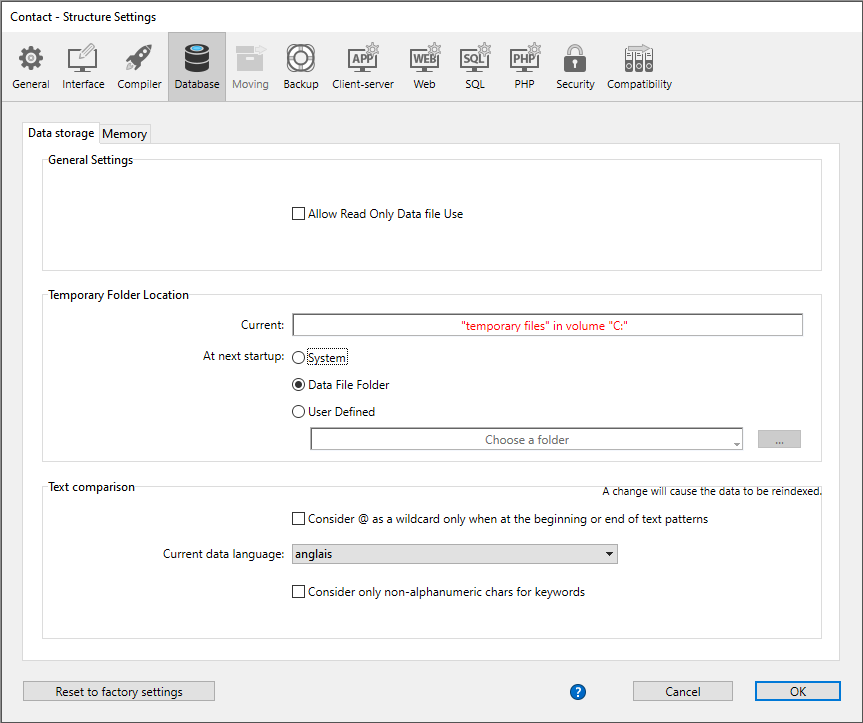
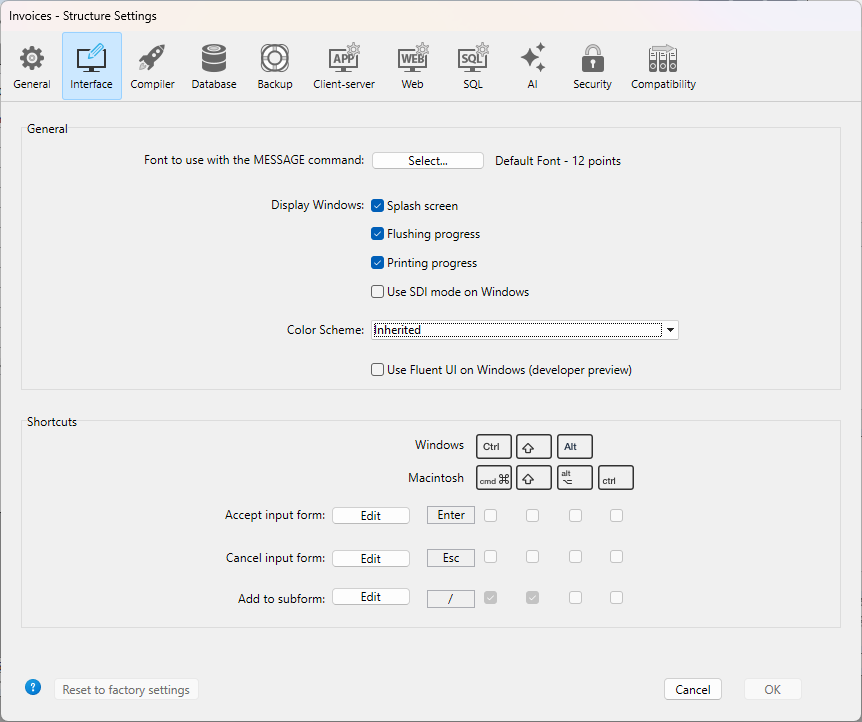
done (#3216)

diff --git a/sidebars.js b/sidebars.js
@@ -72,7 +72,6 @@ module.exports =
                 "settings/client-server",
                 "settings/web",
                 "settings/sql",
-                "settings/php",
                 "settings/security",
                 "settings/compatibility"
               ]

diff --git a/docs/language-legacy/4D Environment/open-settings-window.md b/docs/language-legacy/4D Environment/open-settings-window.md
@@ -87,7 +87,6 @@ Here are the keys that can be used in the *selector* parameter in standard mode,
 */Database/Web/Log scheduler* 
 */Database/Web/Webservices* 
 */Database/SQL* 
-*/Database/php* 
 */Database/Compatibility* 
 */Database/Security* 
 
@@ -100,7 +99,7 @@ Here are the keys that can be used in the *selector* parameter in "User settings
 */Database* 
 */Database/Interface* 
 */Database/Database/Memory and cpu* 
-**/Database/Client-Server* 
+*/Database/Client-Server* 
 */Database/Client-Server/Network* 
 */Database/Client-Server/IP configuration* 
 */Database/Web* 
@@ -111,12 +110,12 @@ Here are the keys that can be used in the *selector* parameter in "User settings
 */Database/Web/Log scheduler* 
 */Database/Web/Webservices* 
 */Database/SQL* 
-*/Database/php* 
 
 Addtional keys in "User settings for data" mode:
 
 */Database/Backup* 
-*/Database/Backup/Scheduler* */Database/Backup/Configuration* 
+*/Database/Backup/Scheduler* 
+*/Database/Backup/Configuration* 
 */Database/Backup/Backup and restore*
 
 ## Example 1 

diff --git a/docs/Notes/updates.md b/docs/Notes/updates.md
@@ -17,6 +17,7 @@ title: Release Notes
 
 - The [`JSON Validate`](../commands/json-validate) command now takes the *$schema* key into account and generates an error if a non-supported version is declared in the schema. 
 - For clarity, formula objects are now instances of a new [`4D.Formula`](../API/FormulaClass.md) class that inherits from the generic [`4D.Function`](../API/FunctionClass.md) class.
+- The "PHP" page has been removed from the [Settings dialog box](../settings/overview.md). Use the [PHP selectors with the `SET DATABASE PARAMETER`](../commands/set-database-parameter#php-interpreter-ip-address-55) command to configure a PHP interpeter. 
 
 
 ## 4D 21 R2

diff --git a/docs/settings/overview.md b/docs/settings/overview.md
@@ -126,7 +126,6 @@ The following table lists the pages of settings found in the **User Settings** a
 | [Web/Log (backup) page](./web.md#log-backup) | Identical to standard settings | Identical to standard settings |
 | [Web/Web Services page](./web.md#web-services) | Method prefixing option not available | Method prefixing option not available |
 | [SQL page](./sql.md) | Identical to standard settings | Identical to standard settings |
-| [PHP page](./php.md) | Identical to standard settings | Identical to standard settings |
 | [Security page](./security.md) | N/a | N/a |
 | [Compatibility page](./compatibility.md) | N/a | N/a |
 
